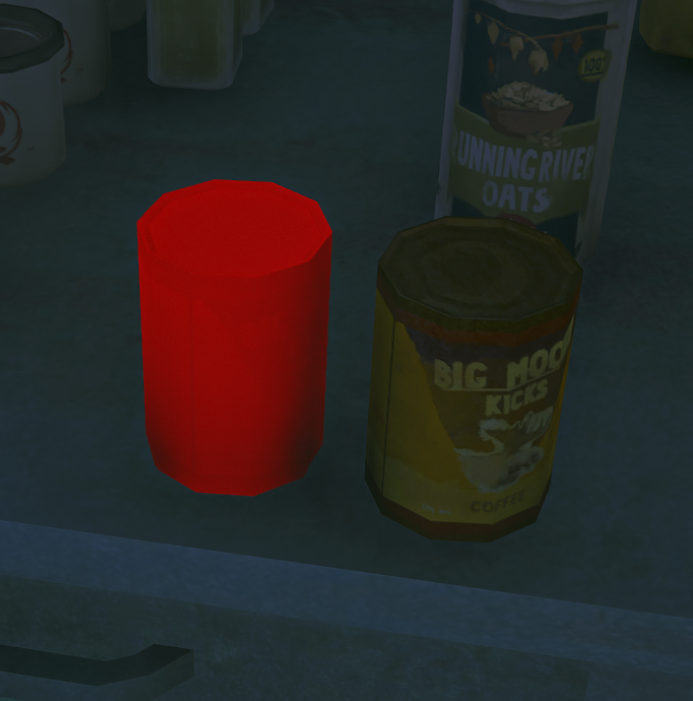
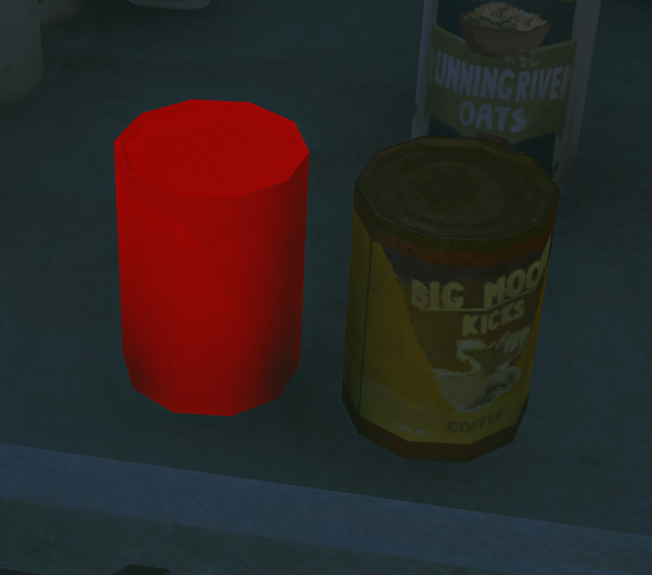
Refine README screenshots and HUD description

diff --git a/README.md b/README.md
@@ -26,7 +26,7 @@ The HUD can include:
 
 Each element can be turned on or off independently.
 
-The indoor and outdoor displays adapt to the information available. Indoors, the stick compass is disabled while the HUD continues showing time, scent, temperature, and carry weight. Outdoors, the compass and wind dials provide their full directional readouts.
+The indoor and outdoor displays adapt to the information available. Indoors, the stick compass is disabled while the HUD continues showing time, scent, indoor and outdoor temperature, and carry weight. Outdoors, the compass and wind dials provide their full directional readouts.
 
 | Indoor HUD | Outdoor HUD |
 | --- | --- |